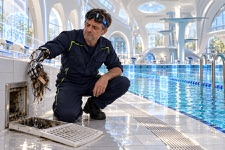
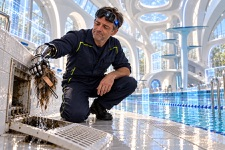
Install Pool of the Future art and captions

diff --git a/src/toolkit/gallery/logic/museum-5-gallery.ts b/src/toolkit/gallery/logic/museum-5-gallery.ts
@@ -4,8 +4,8 @@
  * stands. Pure. Each decade is a bay of three photographs (morning,
  * midday, night), hung earliest on the visitor's left as they walk round:
  * along the north wall west to east, then down the east wall north to
- * south. No picture exists yet: each frame is a placeholder carrying its
- * decade and the caption of its scene. The scenes follow 107h's research
+ * south. Each frame has a placeholder carrying its decade and caption
+ * until its photograph loads. The scenes follow 107h's research
  * (the yellow orthotolidine comparator before the 1960s, the pink DPD
  * after, cells on the controller from the 1990s) and the pool's day.
  */
@@ -20,8 +20,8 @@ export type PhotoLook =
   | 'digital';
 
 export interface Photograph {
-  /** The time of day it shows, or (the future's bay) its number in the series. */
-  when: 'Morning' | 'Midday' | 'Night' | 'One' | 'Two' | 'Three';
+  /** The time of day it shows, or the future bay's stage of the round. */
+  when: 'Morning' | 'Midday' | 'Night' | 'Opening' | 'Testing' | 'Closing';
   /** Its image's file name, without extension, where not `<decade>-<when>`. */
   file?: string;
   /** The caption: the scene, as a gallery label says it. */
@@ -319,22 +319,22 @@ export const FUTURE: Decade = {
   strap: 'Some things never change',
   photos: [
     {
-      when: 'One',
+      when: 'Opening',
       file: 'future-1',
       caption:
-        'Opening, some year yet to come. The plant runs itself; the technician walks the baths through his goggles, checking water that no longer keeps to the floor.',
+        'Reg makes his round through a bath where pools climb the walls and water runs overhead. He still checks every basin.',
     },
     {
-      when: 'Two',
+      when: 'Testing',
       file: 'future-2',
       caption:
-        'Testing: the pool’s water as the model holds it, a cube at a time, each one turned in the hand and read; every reading agrees.',
+        'Reg reaches into the water model, checking one glowing cube at a time. The readings are instant; the round still takes time.',
     },
     {
-      when: 'Three',
+      when: 'Closing',
       file: 'future-3',
       caption:
-        'Closing: the skimmer basket, emptied by hand, as ever: hair, a plaster and a hair grip. Some things never change.',
+        'Reg checks the skimmer and finds hair, a plaster and a hair grip. Some things never change.',
     },
   ],
 };

diff --git a/doc/research/2026-10-29-museum-model-costs.md b/doc/research/2026-10-29-museum-model-costs.md
@@ -12,50 +12,50 @@ For each model, over visible descendants only: meshes (meshes, lines and points,
 
 "Saved" is the estimated draw calls saved by a far version of one draw per material signature, with moving meshes left as they are: meshes − signatures − moving.
 
-| # | Hall | Model | Meshes | Triangles | Materials | Signatures | Canvases | Moving | Saved |
-|---|------|-------|-------:|----------:|----------:|-----------:|---------:|-------:|------:|
-| 1 | museum9 | [Merged / Desk fascia: water panel and station clock] (control desk) | 198 | 24580 | 190 | 103 | 80 | 0 | 95 |
-| 2 | museum4 | Analyser readout board | 184 | 2458 | 114 | 42 | 34 | 10 | 132 |
-| 3 | museum4 | [Pump base channel / Pump base channel] | 147 | 6014 | 33 | 26 | 10 | 4 | 117 |
-| 4 | museum4 | Dosing desk | 140 | 19436 | 132 | 81 | 63 | 0 | 59 |
-| 5 | museum1 | [Label FIRING / Label LOCKOUT] (boiler panel) | 136 | 10548 | 124 | 65 | 47 | 0 | 71 |
-| 6 | museum2 | [Label P1 RUN / Label P1 TRIP] (pump panel) | 130 | 14886 | 120 | 61 | 44 | 0 | 69 |
-| 7 | museum2 | Ozone generator | 103 | 6066 | 94 | 67 | 25 | 4 | 32 |
-| 8 | museum3 | [Label DP1 STROKE / Label DP1 FAULT] (dosing panel) | 102 | 15562 | 95 | 52 | 36 | 0 | 50 |
-| 9 | museum6 | [P3 dosing pump] | 99 | 6384 | 68 | 46 | 22 | 0 | 53 |
-| 10 | museum3 | DC1 Chlorella DC-1 pair | 87 | 6728 | 81 | 32 | 18 | 0 | 55 |
-| 11 | museum3 | [SC1 sample cell panel] | 79 | 3034 | 46 | 43 | 19 | 0 | 36 |
-| 12 | museum9 | [SC1 sample cell panel] | 79 | 3034 | 46 | 43 | 19 | 0 | 36 |
-| 13 | museum1 | [Losses board] | 76 | 1092 | 48 | 26 | 13 | 4 | 46 |
-| 14 | museum0 | [Painted pool floor / Floor arrow stickers] (lobby dressing) | 71 | 5044 | 67 | 57 | 26 | 0 | 14 |
-| 15 | museum6 | [START push button / Label START] | 68 | 5524 | 50 | 34 | 12 | 0 | 34 |
-| 16 | museum1 | [Condensing boiler / Merged] | 66 | 2162 | 63 | 51 | 22 | 2 | 13 |
-| 17 | museum6 | [P1 dosing pump] | 66 | 4502 | 47 | 31 | 11 | 0 | 35 |
-| 18 | museum6 | [P2 dosing pump] | 66 | 4502 | 47 | 31 | 11 | 0 | 35 |
-| 19 | museum3 | [DP1 dosing pump / Pipe run (none, 12 mm)] | 64 | 5054 | 44 | 32 | 11 | 0 | 32 |
-| 20 | museum3 | [DP2 dosing pump / Pipe run (none, 12 mm)] | 64 | 5094 | 44 | 32 | 11 | 0 | 32 |
-| 21 | museum9 | [DP1 dosing pump] | 62 | 4454 | 43 | 31 | 11 | 0 | 31 |
-| 22 | museum9 | [DP2 dosing pump] | 62 | 4454 | 43 | 31 | 11 | 0 | 31 |
-| 23 | museum4 | [Label GROUP / Label P1 RUN] (pump group panel) | 61 | 11842 | 58 | 31 | 16 | 0 | 30 |
-| 24 | museum8 | The two fill points, before and after | 59 | 2604 | 46 | 43 | 15 | 0 | 16 |
-| 25 | museum6 | [Label RUN / Label RUN] (pump panel) | 57 | 16166 | 56 | 36 | 22 | 0 | 21 |
+| #   | Hall    | Model                                                                | Meshes | Triangles | Materials | Signatures | Canvases | Moving | Saved |
+| --- | ------- | -------------------------------------------------------------------- | -----: | --------: | --------: | ---------: | -------: | -----: | ----: |
+| 1   | museum9 | [Merged / Desk fascia: water panel and station clock] (control desk) |    198 |     24580 |       190 |        103 |       80 |      0 |    95 |
+| 2   | museum4 | Analyser readout board                                               |    184 |      2458 |       114 |         42 |       34 |     10 |   132 |
+| 3   | museum4 | [Pump base channel / Pump base channel]                              |    147 |      6014 |        33 |         26 |       10 |      4 |   117 |
+| 4   | museum4 | Dosing desk                                                          |    140 |     19436 |       132 |         81 |       63 |      0 |    59 |
+| 5   | museum1 | [Label FIRING / Label LOCKOUT] (boiler panel)                        |    136 |     10548 |       124 |         65 |       47 |      0 |    71 |
+| 6   | museum2 | [Label P1 RUN / Label P1 TRIP] (pump panel)                          |    130 |     14886 |       120 |         61 |       44 |      0 |    69 |
+| 7   | museum2 | Ozone generator                                                      |    103 |      6066 |        94 |         67 |       25 |      4 |    32 |
+| 8   | museum3 | [Label DP1 STROKE / Label DP1 FAULT] (dosing panel)                  |    102 |     15562 |        95 |         52 |       36 |      0 |    50 |
+| 9   | museum6 | [P3 dosing pump]                                                     |     99 |      6384 |        68 |         46 |       22 |      0 |    53 |
+| 10  | museum3 | DC1 Chlorella DC-1 pair                                              |     87 |      6728 |        81 |         32 |       18 |      0 |    55 |
+| 11  | museum3 | [SC1 sample cell panel]                                              |     79 |      3034 |        46 |         43 |       19 |      0 |    36 |
+| 12  | museum9 | [SC1 sample cell panel]                                              |     79 |      3034 |        46 |         43 |       19 |      0 |    36 |
+| 13  | museum1 | [Losses board]                                                       |     76 |      1092 |        48 |         26 |       13 |      4 |    46 |
+| 14  | museum0 | [Painted pool floor / Floor arrow stickers] (lobby dressing)         |     71 |      5044 |        67 |         57 |       26 |      0 |    14 |
+| 15  | museum6 | [START push button / Label START]                                    |     68 |      5524 |        50 |         34 |       12 |      0 |    34 |
+| 16  | museum1 | [Condensing boiler / Merged]                                         |     66 |      2162 |        63 |         51 |       22 |      2 |    13 |
+| 17  | museum6 | [P1 dosing pump]                                                     |     66 |      4502 |        47 |         31 |       11 |      0 |    35 |
+| 18  | museum6 | [P2 dosing pump]                                                     |     66 |      4502 |        47 |         31 |       11 |      0 |    35 |
+| 19  | museum3 | [DP1 dosing pump / Pipe run (none, 12 mm)]                           |     64 |      5054 |        44 |         32 |       11 |      0 |    32 |
+| 20  | museum3 | [DP2 dosing pump / Pipe run (none, 12 mm)]                           |     64 |      5094 |        44 |         32 |       11 |      0 |    32 |
+| 21  | museum9 | [DP1 dosing pump]                                                    |     62 |      4454 |        43 |         31 |       11 |      0 |    31 |
+| 22  | museum9 | [DP2 dosing pump]                                                    |     62 |      4454 |        43 |         31 |       11 |      0 |    31 |
+| 23  | museum4 | [Label GROUP / Label P1 RUN] (pump group panel)                      |     61 |     11842 |        58 |         31 |       16 |      0 |    30 |
+| 24  | museum8 | The two fill points, before and after                                |     59 |      2604 |        46 |         43 |       15 |      0 |    16 |
+| 25  | museum6 | [Label RUN / Label RUN] (pump panel)                                 |     57 |     16166 |        56 |         36 |       22 |      0 |    21 |
 
 ## Per hall
 
 Own = hall shell plus the hall's exhibit; copies = visible meshes of the two neighbour copies (their shells and exhibits) at the spawn point. "Exhibit signatures" is how many draws the whole exhibit would need if merged per material signature in one piece.
 
-| Hall | Exhibit | Exhibit meshes | Shell meshes | Own | Copies (neighbours) | Total | Exhibit signatures |
-|------|---------|---------------:|-------------:|----:|--------------------:|------:|-------------------:|
-| museum0 | (lobby, no exhibit) | 71 | 38 | 109 | 1040 (museum9, museum1) | 1149 | - |
-| museum1 | Hall 1: Warm water | 948 | 107 | 1055 | 94 (museum0, museum2) | 1149 | 335 |
-| museum2 | Hall 2: Clean water | 1085 | 95 | 1180 | 1040 (museum1, museum3) | 2220 | 364 |
-| museum3 | Hall 3: Safe water | 795 | 115 | 910 | 1158 (museum2, museum4) | 2068 | 315 |
-| museum4 | Hall 4: The chemistry of pools | 814 | 95 | 909 | 888 (museum3, museum5) | 1797 | 286 |
-| museum5 | Hall 5: A Day in the Life | 172 | 109 | 281 | 887 (museum4, museum6) | 1168 | 52 |
-| museum6 | Hall 6: Grundflow’s Amazing World of Pumps | 1179 | 98 | 1277 | 259 (museum5, museum7) | 1536 | 353 |
-| museum7 | Hall 7: Grout | 151 | 111 | 262 | 1255 (museum6, museum8) | 1517 | 43 |
-| museum8 | Hall 8: Never again | 115 | 96 | 211 | 240 (museum7, museum9) | 451 | 72 |
-| museum9 | Hall 9: The whole plant | 1358 | 111 | 1469 | 189 (museum8, museum0) | 1658 | 495 |
+| Hall    | Exhibit                                    | Exhibit meshes | Shell meshes |  Own |     Copies (neighbours) | Total | Exhibit signatures |
+| ------- | ------------------------------------------ | -------------: | -----------: | ---: | ----------------------: | ----: | -----------------: |
+| museum0 | (lobby, no exhibit)                        |             71 |           38 |  109 | 1040 (museum9, museum1) |  1149 |                  - |
+| museum1 | Hall 1: Warm water                         |            948 |          107 | 1055 |   94 (museum0, museum2) |  1149 |                335 |
+| museum2 | Hall 2: Clean water                        |           1085 |           95 | 1180 | 1040 (museum1, museum3) |  2220 |                364 |
+| museum3 | Hall 3: Safe water                         |            795 |          115 |  910 | 1158 (museum2, museum4) |  2068 |                315 |
+| museum4 | Hall 4: The chemistry of pools             |            814 |           95 |  909 |  888 (museum3, museum5) |  1797 |                286 |
+| museum5 | Hall 5: A Day in the Life                  |            172 |          109 |  281 |  887 (museum4, museum6) |  1168 |                 52 |
+| museum6 | Hall 6: Grundflow’s Amazing World of Pumps |           1179 |           98 | 1277 |  259 (museum5, museum7) |  1536 |                353 |
+| museum7 | Hall 7: Grout                              |            151 |          111 |  262 | 1255 (museum6, museum8) |  1517 |                 43 |
+| museum8 | Hall 8: Never again                        |            115 |           96 |  211 |  240 (museum7, museum9) |   451 |                 72 |
+| museum9 | Hall 9: The whole plant                    |           1358 |          111 | 1469 |  189 (museum8, museum0) |  1658 |                495 |
 
 ## Estimate of draw calls saved
 

diff --git a/doc/prompts/day-in-the-life/pool-of-the-future-prompts.md b/doc/prompts/day-in-the-life/pool-of-the-future-prompts.md
@@ -2,7 +2,7 @@
 
 Prompts for the last bay of Hall 5's photograph gallery ([107l](../107l-a-day-in-the-life.md); the captions are `FUTURE` in `src/toolkit/gallery/logic/museum-5-gallery.ts`). The decades' prompts, and the rules every image follows, are in [midjourney-prompts.md](midjourney-prompts.md).
 
-The hall's last wall (the owner, 2026-10-29): "the Pool of the Future?", three photographs of a future Reg, the same poolman in each. Name the results `future-1_<variant>.png`, `future-2_…`, `future-3_…` in `doc/gens/day-in-the-life/`. Generated 2026-10-29 by Codex's built-in image generator, the prompts used as the decades' were (flags dropped, the same prefix and ending), Future 1 the reference for Reg in the other two; each first variant, `_a`, was kept, and resized to `resources/images/day-in-the-life/future-<n>.jpg`.
+The hall's last wall (the owner, 2026-10-29): "the Pool of the Future?", three photographs of a future Reg, the same poolman in each. Generated 2026-10-29 by Codex's built-in image generator: three variants (`_a`, `_b`, `_c`) of each scene are saved as `future-<n>_<variant>.png` in `doc/gens/day-in-the-life/`. Future 1 provided the visual reference for Reg in the other two scenes; each variant's Reg follows the corresponding Future 1. The `_b` set was selected, resized to 900 × 600, and installed as `resources/images/day-in-the-life/future-<n>.jpg`, with low-resolution copies in `lo/`. This image task is done. The prompts used for the first variants were (flags dropped, the same prefix and ending):
 
 ## Future 1: the augmented poolman (`future-1`)
 

diff --git a/CHANGELOG.md b/CHANGELOG.md
@@ -4,6 +4,8 @@ All notable changes to Pool Plant are recorded here. The format follows [Keep a 
 
 ## [Unreleased]
 
+- Museum, Hall 5: three variants of each Pool of the Future scene are saved; the matching `b` set now hangs in the gallery, with captions that follow Reg's opening round, water-model inspection and closing skimmer check.
+
 - Static signs draw each size of their lettering only once it would cover 5 pixels of the screen, seen as it is: its distance, the camera's field of view and zoom, the screen's height and how obliquely the sign is seen (the owner, 2026-10-29; `watchSign`, `signStep`, `smallestReadable`): so a big title shows from across a hall and small print only close to, and a sign too far for any of its lettering shows only its regions of colour; each step drawn once, by running the sign's drawing again without the lettering it leaves out. Covers the museum's signs (`signMesh`) and every printed face made with the fitting tools (`printed`: placards, wall panels).
 
 - Far versions keep static signs as they are, their pictures and all, one draw each (the owner, 2026-10-29: static signs should always be visible); Hall 2's lecterns seen from Hall 3 were black backing plates.

diff --git a/diary/2026-10-29_pool-of-the-future-art.md b/diary/2026-10-29_pool-of-the-future-art.md
@@ -1,0 +1,5 @@
+# Pool of the Future photographs
+
+Generated two further variants of each of Hall 5's three future scenes, giving the owner nine original images in `doc/gens/day-in-the-life/` (`_a`, `_b`, `_c` for each scene). Each set keeps the same augmented Reg across the impossible pool, the water-model inspection and the skimmer check.
+
+Selected the matching `_b` set for the gallery and converted it to 900 × 600 JPEGs, with 225 × 150 low-resolution copies for the photo-detail system. Rewrote the captions beneath the prints to describe the displayed scenes as Reg's opening, testing and closing round. Kept the other variants as alternatives and marked the image prompt done.
